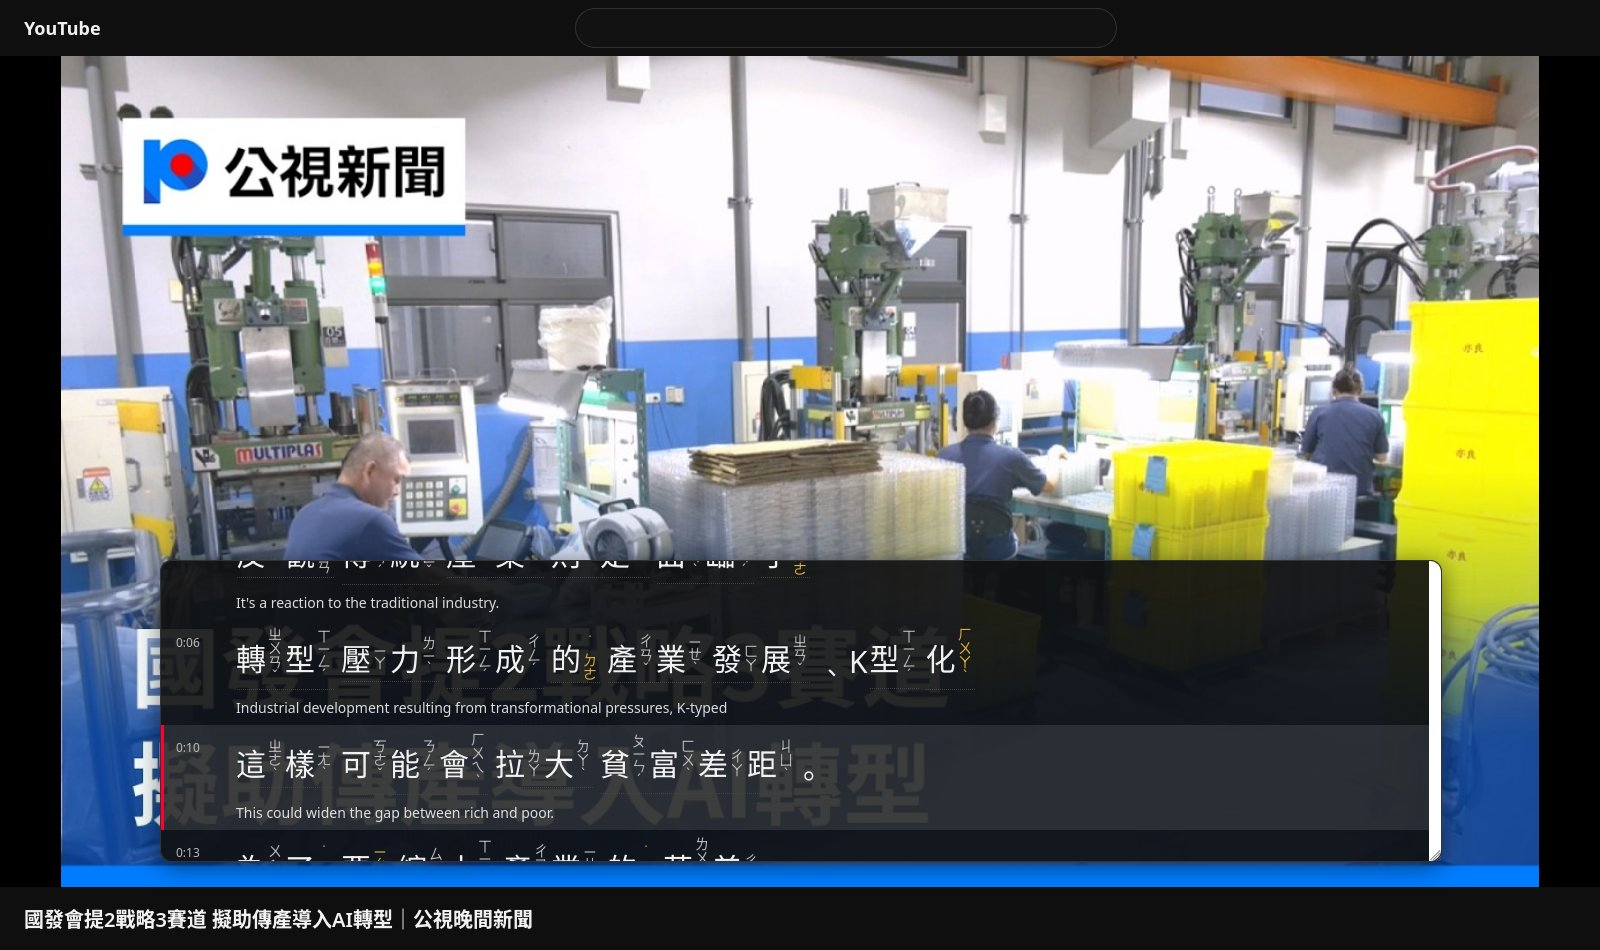
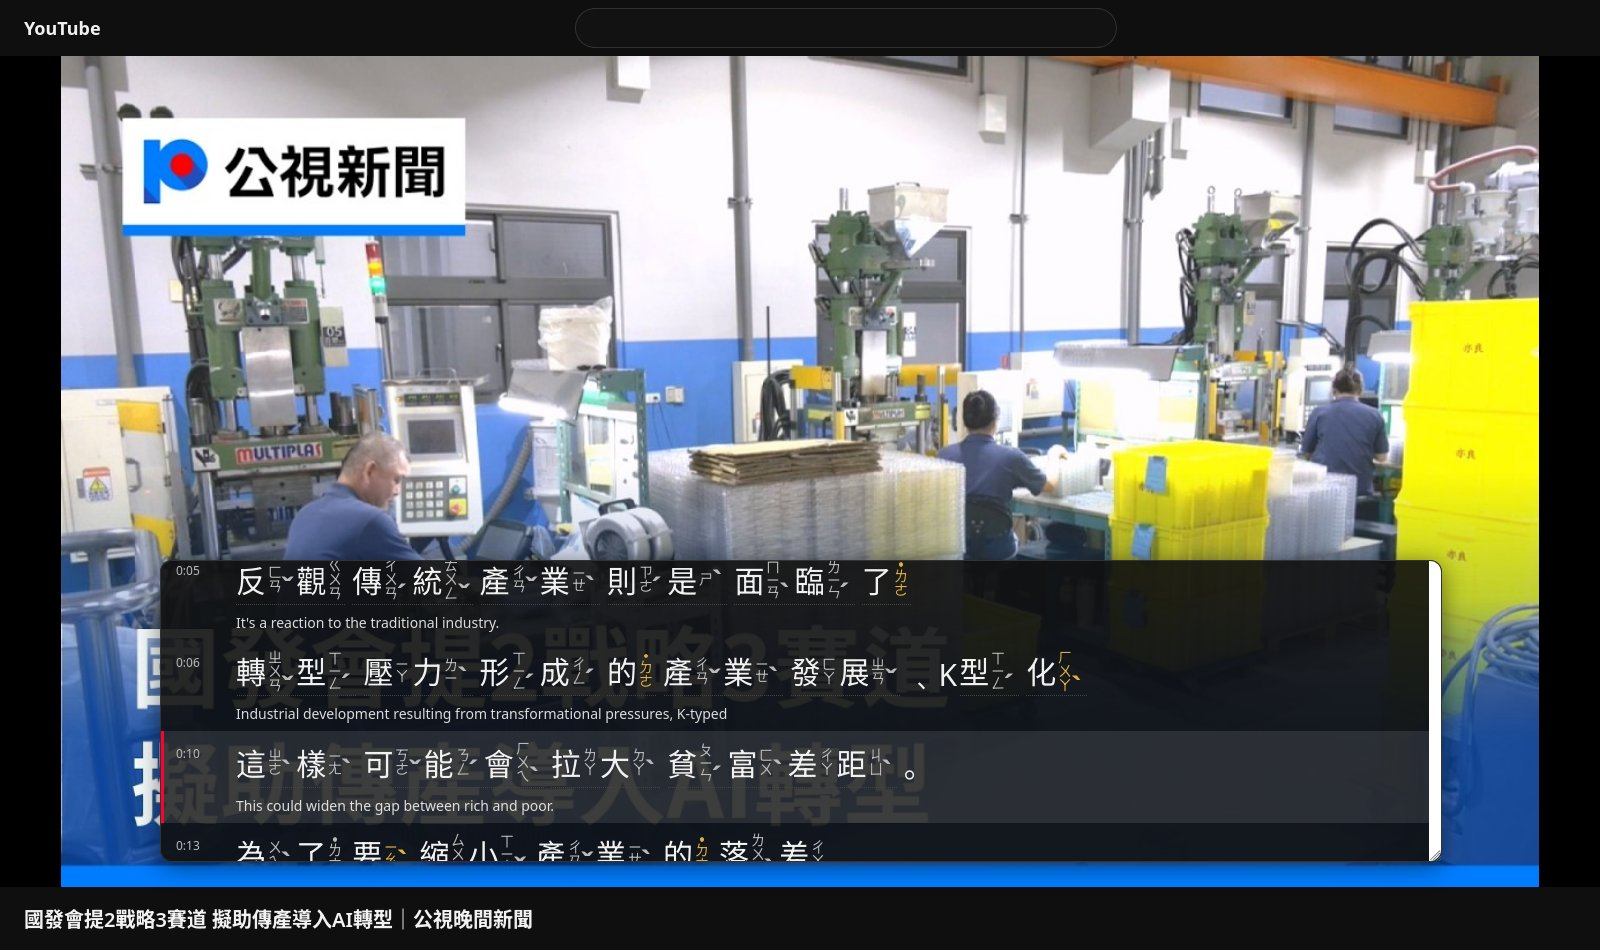
v0.8.3: Tone marks and neutral-tone dot laid out properly, aligned word underlines

diff --git a/yt-zhuyin-transcript.user.js b/yt-zhuyin-transcript.user.js
@@ -1,7 +1,7 @@
 // ==UserScript==
 // @name         YouTube 注音 transcript (zh-TW + zhuyin, pinyin optional, English)
 // @namespace    local.yt-zhuyin
-// @version      0.8.2
+// @version      0.8.3
 // @description  Side panel: traditional Chinese captions segmented into words with zhuyin from a Taiwan (McBopomofo) dictionary, optional pinyin derived from the zhuyin, English line, click-to-seek.
 // @match        https://www.youtube.com/*
 // @homepageURL  https://github.com/ashirviskas/yt-zhuyin
@@ -350,12 +350,23 @@
   .ytz-ts{font-size:12px;color:var(--yt-spec-text-secondary,#aaa);padding-top:6px;font-variant-numeric:tabular-nums}
   .ytz-zh{line-height:1.15}
   .ytz-word{display:inline-flex;align-items:center;margin:0 ${CFG.wordGap ? 7 : 2}px 4px 0;vertical-align:middle;border-bottom:1px dotted transparent}
+  /* every cell as tall as the longest column (˙ + 3 symbols), so word boxes and their underlines line up */
+  .ytz-cc{height:calc(${CFG.zhuyinFontSize} * 3.4)}
+  #ytz-panel.ytz-top .ytz-cc{height:auto}
   #ytz-panel.ytz-wordgap .ytz-word{border-bottom-color:var(--yt-spec-10-percent-layer,#444)}
   .ytz-cc{display:inline-flex;align-items:center;margin-right:3px}
   .ytz-han{font-size:${CFG.hanFontSize};line-height:1}
-  .ytz-zy{writing-mode:vertical-lr;text-orientation:upright;font-size:${CFG.zhuyinFontSize};line-height:1;margin-left:2px;color:var(--yt-spec-text-secondary,#aaa);white-space:nowrap;font-family:"Noto Sans TC","PingFang TC","BopomofoRuby","Microsoft JhengHei",sans-serif}
+  .ytz-zy{display:inline-flex;align-items:flex-end;font-size:${CFG.zhuyinFontSize};line-height:1;margin-left:2px;color:var(--yt-spec-text-secondary,#aaa);white-space:nowrap;font-family:"Noto Sans TC","PingFang TC","BopomofoRuby","Microsoft JhengHei",sans-serif}
+  .ytz-col{display:inline-flex;flex-direction:column;align-items:center}
+  .ytz-zs{writing-mode:vertical-lr;text-orientation:upright}
+  .ytz-dot{width:.32em;height:.32em;border-radius:50%;background:currentColor;margin-bottom:.2em}
+  .ytz-tn{font-size:2em;font-weight:700;line-height:.5;width:.45em;margin-left:-.05em}   /* line box = one symbol: sits beside the last one */
   #ytz-panel.ytz-top .ytz-cc{flex-direction:column-reverse;align-items:center;margin-right:6px}
-  #ytz-panel.ytz-top .ytz-zy{writing-mode:horizontal-tb;text-orientation:mixed;font-size:${CFG.zhuyinTopFontSize};margin:0 0 2px 0;letter-spacing:.5px}
+  #ytz-panel.ytz-top .ytz-zy{align-items:center;font-size:${CFG.zhuyinTopFontSize};margin:0 0 2px 0;letter-spacing:.5px}
+  #ytz-panel.ytz-top .ytz-zs{writing-mode:horizontal-tb;text-orientation:mixed}
+  #ytz-panel.ytz-top .ytz-col{flex-direction:row}
+  #ytz-panel.ytz-top .ytz-dot{margin:0 .2em 0 0}
+  #ytz-panel.ytz-top .ytz-tn{font-size:1.4em;line-height:.7;width:auto;margin:0 0 0 .05em}
   .ytz-zy.ytz-poly{color:#e0b040}
   .ytz-zy.ytz-missing{color:#ff5555}
   .ytz-other{font-size:${CFG.hanFontSize};line-height:1;vertical-align:middle;margin-right:2px}
@@ -475,6 +486,21 @@
   // theater / default mode resize the player without resizing the window
   waitFor(() => document.getElementById('movie_player')).then(p => p && new ResizeObserver(fitSoon).observe(p));
 
+  // Textbook layout: the symbols stack in a column with the neutral-tone dot centred above it, and ˊ ˇ ˋ sit
+  // in their own slot to the right, level with the last symbol. The dot is drawn, not the ˙ glyph, which
+  // renders as an off-centre speck in vertical text.
+  function zhuyinParts(z) {
+    const dot = z.startsWith('˙'); if (dot) z = z.slice(1);
+    const tone = 'ˊˇˋ'.includes(z.at(-1)) ? z.at(-1) : '';
+    const col = document.createElement('span'); col.className = 'ytz-col';
+    if (dot) { const d = document.createElement('span'); d.className = 'ytz-dot'; col.appendChild(d); }
+    const syms = document.createElement('span'); syms.className = 'ytz-zs'; syms.textContent = tone ? z.slice(0, -1) : z;
+    col.appendChild(syms);
+    if (!tone) return [col];
+    const t = document.createElement('span'); t.className = 'ytz-tn'; t.textContent = tone;
+    return [col, t];
+  }
+
   function renderZh(text, D) {
     const wrap = document.createElement('div'); wrap.className = 'ytz-zh';
     const py = [];
@@ -490,7 +516,7 @@
         const han = document.createElement('span'); han.className = 'ytz-han'; han.textContent = ch;
         const zy = document.createElement('span'); zy.className = 'ytz-zy';
         const z = w.zy[i];
-        if (z) { zy.textContent = normZhuyin(z); py.push(zhuyinToPinyin(z)); }
+        if (z) { zy.append(...zhuyinParts(normZhuyin(z))); py.push(zhuyinToPinyin(z)); }
         else { zy.textContent = '?'; zy.classList.add('ytz-missing'); }
         if (w.alts && w.alts.length > 1) { zy.classList.add('ytz-poly'); cc.title = 'other readings: ' + w.alts.slice(1).map(normZhuyin).join(' / '); }
         cc.append(han, zy); word.appendChild(cc);

diff --git a/src/60-render.js b/src/60-render.js
@@ -26,12 +26,23 @@
   .ytz-ts{font-size:12px;color:var(--yt-spec-text-secondary,#aaa);padding-top:6px;font-variant-numeric:tabular-nums}
   .ytz-zh{line-height:1.15}
   .ytz-word{display:inline-flex;align-items:center;margin:0 ${CFG.wordGap ? 7 : 2}px 4px 0;vertical-align:middle;border-bottom:1px dotted transparent}
+  /* every cell as tall as the longest column (˙ + 3 symbols), so word boxes and their underlines line up */
+  .ytz-cc{height:calc(${CFG.zhuyinFontSize} * 3.4)}
+  #ytz-panel.ytz-top .ytz-cc{height:auto}
   #ytz-panel.ytz-wordgap .ytz-word{border-bottom-color:var(--yt-spec-10-percent-layer,#444)}
   .ytz-cc{display:inline-flex;align-items:center;margin-right:3px}
   .ytz-han{font-size:${CFG.hanFontSize};line-height:1}
-  .ytz-zy{writing-mode:vertical-lr;text-orientation:upright;font-size:${CFG.zhuyinFontSize};line-height:1;margin-left:2px;color:var(--yt-spec-text-secondary,#aaa);white-space:nowrap;font-family:"Noto Sans TC","PingFang TC","BopomofoRuby","Microsoft JhengHei",sans-serif}
+  .ytz-zy{display:inline-flex;align-items:flex-end;font-size:${CFG.zhuyinFontSize};line-height:1;margin-left:2px;color:var(--yt-spec-text-secondary,#aaa);white-space:nowrap;font-family:"Noto Sans TC","PingFang TC","BopomofoRuby","Microsoft JhengHei",sans-serif}
+  .ytz-col{display:inline-flex;flex-direction:column;align-items:center}
+  .ytz-zs{writing-mode:vertical-lr;text-orientation:upright}
+  .ytz-dot{width:.32em;height:.32em;border-radius:50%;background:currentColor;margin-bottom:.2em}
+  .ytz-tn{font-size:2em;font-weight:700;line-height:.5;width:.45em;margin-left:-.05em}   /* line box = one symbol: sits beside the last one */
   #ytz-panel.ytz-top .ytz-cc{flex-direction:column-reverse;align-items:center;margin-right:6px}
-  #ytz-panel.ytz-top .ytz-zy{writing-mode:horizontal-tb;text-orientation:mixed;font-size:${CFG.zhuyinTopFontSize};margin:0 0 2px 0;letter-spacing:.5px}
+  #ytz-panel.ytz-top .ytz-zy{align-items:center;font-size:${CFG.zhuyinTopFontSize};margin:0 0 2px 0;letter-spacing:.5px}
+  #ytz-panel.ytz-top .ytz-zs{writing-mode:horizontal-tb;text-orientation:mixed}
+  #ytz-panel.ytz-top .ytz-col{flex-direction:row}
+  #ytz-panel.ytz-top .ytz-dot{margin:0 .2em 0 0}
+  #ytz-panel.ytz-top .ytz-tn{font-size:1.4em;line-height:.7;width:auto;margin:0 0 0 .05em}
   .ytz-zy.ytz-poly{color:#e0b040}
   .ytz-zy.ytz-missing{color:#ff5555}
   .ytz-other{font-size:${CFG.hanFontSize};line-height:1;vertical-align:middle;margin-right:2px}
@@ -151,6 +162,21 @@
   // theater / default mode resize the player without resizing the window
   waitFor(() => document.getElementById('movie_player')).then(p => p && new ResizeObserver(fitSoon).observe(p));
 
+  // Textbook layout: the symbols stack in a column with the neutral-tone dot centred above it, and ˊ ˇ ˋ sit
+  // in their own slot to the right, level with the last symbol. The dot is drawn, not the ˙ glyph, which
+  // renders as an off-centre speck in vertical text.
+  function zhuyinParts(z) {
+    const dot = z.startsWith('˙'); if (dot) z = z.slice(1);
+    const tone = 'ˊˇˋ'.includes(z.at(-1)) ? z.at(-1) : '';
+    const col = document.createElement('span'); col.className = 'ytz-col';
+    if (dot) { const d = document.createElement('span'); d.className = 'ytz-dot'; col.appendChild(d); }
+    const syms = document.createElement('span'); syms.className = 'ytz-zs'; syms.textContent = tone ? z.slice(0, -1) : z;
+    col.appendChild(syms);
+    if (!tone) return [col];
+    const t = document.createElement('span'); t.className = 'ytz-tn'; t.textContent = tone;
+    return [col, t];
+  }
+
   function renderZh(text, D) {
     const wrap = document.createElement('div'); wrap.className = 'ytz-zh';
     const py = [];
@@ -166,7 +192,7 @@
         const han = document.createElement('span'); han.className = 'ytz-han'; han.textContent = ch;
         const zy = document.createElement('span'); zy.className = 'ytz-zy';
         const z = w.zy[i];
-        if (z) { zy.textContent = normZhuyin(z); py.push(zhuyinToPinyin(z)); }
+        if (z) { zy.append(...zhuyinParts(normZhuyin(z))); py.push(zhuyinToPinyin(z)); }
         else { zy.textContent = '?'; zy.classList.add('ytz-missing'); }
         if (w.alts && w.alts.length > 1) { zy.classList.add('ytz-poly'); cc.title = 'other readings: ' + w.alts.slice(1).map(normZhuyin).join(' / '); }
         cc.append(han, zy); word.appendChild(cc);
